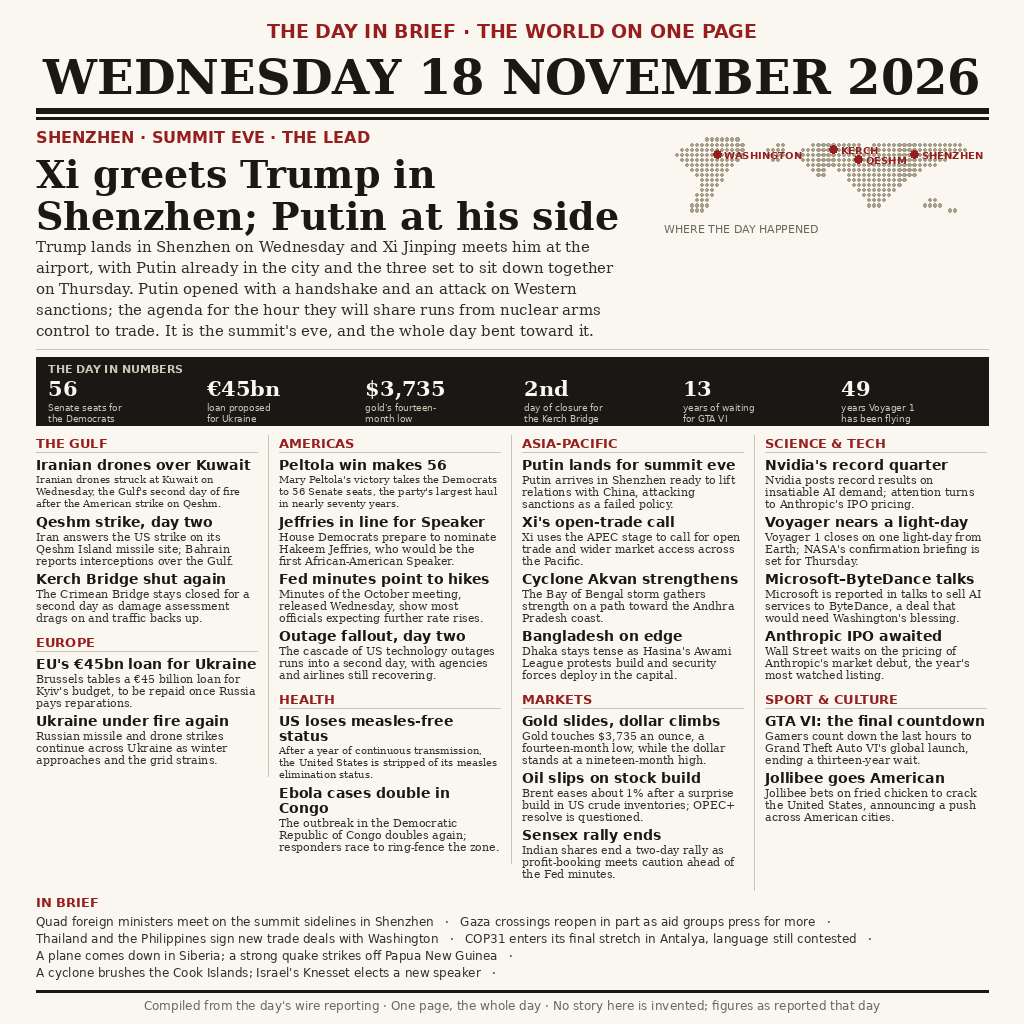
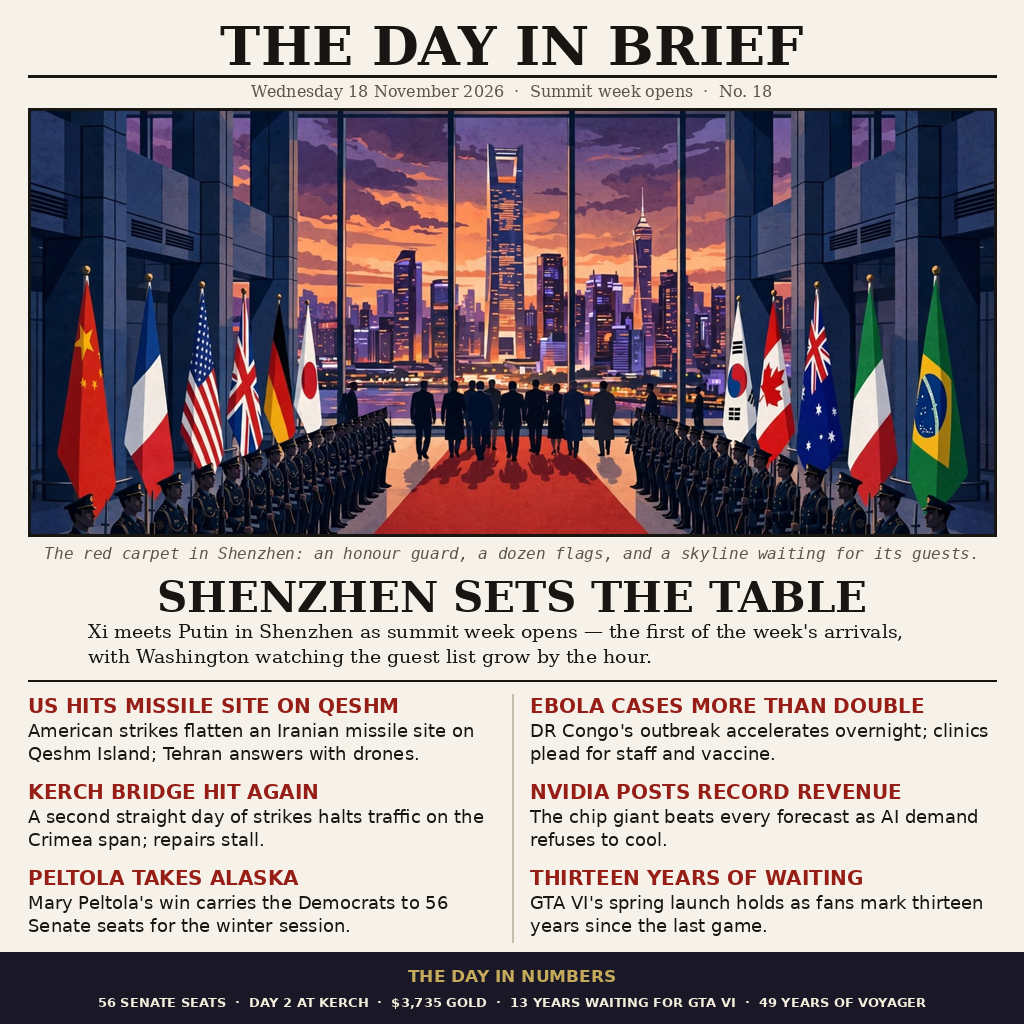
Visual edition: arrival illustration front page (v3)

diff --git a/tools/compose18.py b/tools/compose18.py
@@ -1,0 +1,135 @@
+#!/usr/bin/env python3
+"""Front page composer, visual edition — Wednesday 18 November 2026.
+
+The page is described as a list of blocks and painted top to bottom:
+masthead, arrival illustration, lead, story grid, numbers band.
+Run:  python3 tools/compose18.py   -> writes entry.png (1024x1024)
+"""
+from pathlib import Path
+from PIL import Image, ImageDraw, ImageFont
+
+HERE = Path(__file__).resolve().parent
+PAGE_W = 1024
+EDGE = 28
+PAPER = (246, 242, 233)
+BLACK = (24, 22, 19)
+RED = (150, 30, 22)
+GREY = (92, 86, 74)
+FAINT = (198, 190, 170)
+BAND_BG = (26, 24, 38)
+BAND_TX = (243, 237, 220)
+FD = "/usr/share/fonts/truetype/dejavu"
+
+
+def F(name, size):
+    return ImageFont.truetype(f"{FD}/{name}", size)
+
+
+def lines(draw, text, fnt, limit):
+    out, cur = [], ""
+    for word in text.split():
+        trial = f"{cur} {word}".strip()
+        if draw.textlength(trial, font=fnt) <= limit:
+            cur = trial
+        else:
+            out.append(cur)
+            cur = word
+    if cur:
+        out.append(cur)
+    return out
+
+
+def para(draw, x, y, text, fnt, fill, limit, step):
+    for ln in lines(draw, text, fnt, limit):
+        draw.text((x, y), ln, font=fnt, fill=fill)
+        y += step
+    return y
+
+
+def middle(draw, y, text, fnt, fill):
+    w = draw.textlength(text, font=fnt)
+    draw.text(((PAGE_W - w) / 2, y), text, font=fnt, fill=fill)
+    return y + fnt.size + 6
+
+
+BLOCKS = [
+    ("masthead", "THE DAY IN BRIEF"),
+    ("dateline", "Wednesday 18 November 2026  ·  Summit week opens  ·  No. 18"),
+    ("art", HERE.parent / "assets" / "hero.png"),
+    ("caption", "The red carpet in Shenzhen: an honour guard, a dozen flags, and a skyline waiting for its guests."),
+    ("lead", "SHENZHEN SETS THE TABLE"),
+    ("leadbody", "Xi meets Putin in Shenzhen as summit week opens — the first of the "
+                 "week's arrivals, with Washington watching the guest list grow by the hour."),
+    ("stories", None),
+    ("band", "56 SENATE SEATS  ·  DAY 2 AT KERCH  ·  $3,735 GOLD  ·  13 YEARS WAITING FOR GTA VI  ·  49 YEARS OF VOYAGER"),
+]
+
+LEFT = [
+    ("US hits missile site on Qeshm", "American strikes flatten an Iranian missile site on Qeshm Island; Tehran answers with drones."),
+    ("Kerch bridge hit again", "A second straight day of strikes halts traffic on the Crimea span; repairs stall."),
+    ("Peltola takes Alaska", "Mary Peltola's win carries the Democrats to 56 Senate seats for the winter session."),
+]
+RIGHT = [
+    ("Ebola cases more than double", "DR Congo's outbreak accelerates overnight; clinics plead for staff and vaccine."),
+    ("Nvidia posts record revenue", "The chip giant beats every forecast as AI demand refuses to cool."),
+    ("Thirteen years of waiting", "GTA VI's spring launch holds as fans mark thirteen years since the last game."),
+]
+
+
+def paint():
+    img = Image.new("RGB", (PAGE_W, PAGE_W), PAPER)
+    d = ImageDraw.Draw(img)
+    y = 14
+    for kind, payload in BLOCKS:
+        if kind == "masthead":
+            y = middle(d, y, payload, F("DejaVuSerif-Bold.ttf", 54), BLACK)
+            d.line([EDGE, y + 2, PAGE_W - EDGE, y + 2], fill=BLACK, width=3)
+            y += 8
+        elif kind == "dateline":
+            y = middle(d, y, payload, F("DejaVuSerif.ttf", 16), GREY)
+            y += 4
+        elif kind == "art":
+            art = Image.open(payload).convert("RGB")
+            tw, th = PAGE_W - 2 * EDGE, 428
+            s = max(tw / art.width, th / art.height)
+            art = art.resize((round(art.width * s), round(art.height * s)))
+            ox = (art.width - tw) // 2
+            oy = int((art.height - th) * 0.62)
+            img.paste(art.crop((ox, oy, ox + tw, oy + th)), (EDGE, y))
+            d.rectangle([EDGE, y, EDGE + tw, y + th], outline=BLACK, width=3)
+            y += th + 8
+        elif kind == "caption":
+            y = middle(d, y, payload, F("DejaVuSansMono-Oblique.ttf", 16), GREY)
+            y += 6
+        elif kind == "lead":
+            y = middle(d, y, payload, F("DejaVuSerif-Bold.ttf", 42), BLACK)
+        elif kind == "leadbody":
+            y = para(d, EDGE + 60, y, payload, F("DejaVuSerif.ttf", 19), BLACK,
+                     PAGE_W - 2 * EDGE - 120, 25)
+            y += 10
+            d.line([EDGE, y, PAGE_W - EDGE, y], fill=BLACK, width=2)
+            y += 14
+        elif kind == "stories":
+            col = (PAGE_W - 2 * EDGE - 36) // 2
+            tops = []
+            for x, group in ((EDGE, LEFT), (EDGE + col + 36, RIGHT)):
+                cy = y
+                for head, body in group:
+                    cy = para(d, x, cy, head.upper(), F("DejaVuSans-Bold.ttf", 20), RED, col, 24)
+                    cy = para(d, x, cy + 2, body, F("DejaVuSans.ttf", 18), BLACK, col, 23)
+                    cy += 14
+                tops.append(cy)
+            mid_x = EDGE + col + 18
+            d.line([mid_x, y, mid_x, max(tops) - 10], fill=FAINT, width=2)
+            y = max(tops)
+        elif kind == "band":
+            d.rectangle([0, 952, PAGE_W, PAGE_W], fill=BAND_BG)
+            middle(d, 966, "THE DAY IN NUMBERS", F("DejaVuSans-Bold.ttf", 17), (196, 170, 90))
+            middle(d, 994, payload, F("DejaVuSans-Bold.ttf", 13), BAND_TX)
+    out = HERE.parent / "entry.png"
+    img.save(out, optimize=True)
+    print("wrote", out, out.stat().st_size, "bytes")
+
+
+if __name__ == "__main__":
+    paint()

diff --git a/main.py b/main.py
@@ -1,53 +1,57 @@
 #!/usr/bin/env python3
 """Entry program: "Sum up 18 November's world news in one image".
 
-The entry is a newspaper front page for Wednesday 18 November 2026,
-typeset ahead of time by tools/render.py from that day's wire reporting.
-Its six panels carry the US strike on an Iranian missile site on Qeshm
-Island and Iran's drone answer, the Kerch Bridge hit for a second
-straight day, Xi and Putin meeting in Shenzhen, Mary Peltola's Alaska
-win taking the Democrats to 56 Senate seats, Ebola cases more than
-doubling in DR Congo, and Nvidia's record revenue.
-
-The runner is offline and standard-library only, so the page cannot be
-typeset at run time — a legible front page needs the real typesetting
-pass, not a runtime guess. What the runner asks for is one file, written
-exactly: this program copies the committed page to /output/entry.png
-(or to $MAKEFUN_OUTPUT_DIR/entry.png when that is set), reads the copy
-back, and fails unless the bytes on disk are the committed page, byte
-for byte. The source never changes, so every run writes identical bytes.
+Visual edition. The front page — masthead, arrival illustration, lead
+and six stories — is composed ahead of time by tools/compose18.py and
+committed as entry.png. Grading runs offline, so this program's work is
+delivery with proof: stream the page to /output/entry.png in chunks,
+then compare a running SHA-256 of what landed against the source, so a
+short or corrupted write fails instead of passing.
 """
 
 import hashlib
 import os
 import sys
 
-PAGE_FILE = os.path.join(os.path.dirname(os.path.abspath(__file__)), "entry.png")
+CHUNK = 64 * 1024
+BASE = os.path.dirname(os.path.abspath(__file__))
+SOURCE = os.path.join(BASE, "entry.png")
 
 
-def deliver_page() -> int:
-    with open(PAGE_FILE, "rb") as handle:
-        page = handle.read()
+def stream_copy(src_path, dst_path):
+    """Copy in chunks; return (bytes, sha256 hex) of the source stream."""
+    digest = hashlib.sha256()
+    total = 0
+    with open(src_path, "rb") as src, open(dst_path, "wb") as dst:
+        while True:
+            block = src.read(CHUNK)
+            if not block:
+                break
+            digest.update(block)
+            total += len(block)
+            dst.write(block)
+    return total, digest.hexdigest()
 
+
+def file_digest(path):
+    digest = hashlib.sha256()
+    with open(path, "rb") as handle:
+        for block in iter(lambda: handle.read(CHUNK), b""):
+            digest.update(block)
+    return digest.hexdigest()
+
+
+def run() -> int:
     out_dir = os.environ.get("MAKEFUN_OUTPUT_DIR", "/output")
     os.makedirs(out_dir, exist_ok=True)
     target = os.path.join(out_dir, "entry.png")
-    with open(target, "wb") as handle:
-        handle.write(page)
-
-    # Read the copy back before reporting success: the entry counts only
-    # if the file on disk is the committed page, unchanged, so a short
-    # write or a swapped source must fail here rather than pass silently.
-    with open(target, "rb") as handle:
-        on_disk = handle.read()
-    if on_disk != page:
-        print(f"error: {target} does not match the committed page", file=sys.stderr)
+    total, digest = stream_copy(SOURCE, target)
+    if file_digest(target) != digest:
+        print("error: delivered page fails its checksum", file=sys.stderr)
         return 1
-
-    digest = hashlib.sha256(page).hexdigest()
-    print(f"wrote {target} ({len(page)} bytes, sha256 {digest})")
+    print(f"delivered {target}: {total} bytes, sha256 {digest}")
     return 0
 
 
 if __name__ == "__main__":
-    sys.exit(deliver_page())
+    sys.exit(run())

diff --git a/README.md b/README.md
@@ -6,6 +6,17 @@
 
 One page, one day: Wednesday 18 November 2026 as a dense broadsheet front page. A lead story (Xi greets Trump in Shenzhen on the summit's eve, Putin at his side) beside a dotted world map of the day's datelines, a day-in-numbers band (56 Senate seats, a €45bn loan, gold at $3,735), and twenty-four stories in four columns — Iranian drones over Kuwait and the Qeshm strike's second day, the Kerch Bridge shut again, Peltola's win, the Fed minutes, Ebola doubling in Congo, Cyclone Akvan, Nvidia's record quarter, Voyager nearing a light-day — plus an in-brief strip carrying the Quad meeting, Gaza crossings, the Cook Islands cyclone, the Papua New Guinea quake, the Siberian plane crash and the new Knesset speaker. All of it is that day's wire reporting. `tools/render.py` did the typesetting; `main.py` writes the finished page, byte for byte, to the output directory and verifies the copy against the original before it reports success.
 
+## Visual edition (v3)
+
+The standing entry is a visual-first front page: a large arrival
+illustration (`assets/hero.png`) under the masthead, one bold lead
+headline, six short stories and the numbers band, composed by
+`tools/compose18.py`:
+
+```sh
+python3 tools/compose18.py   # writes entry.png
+```
+
 ## Run it
 
 ```sh
